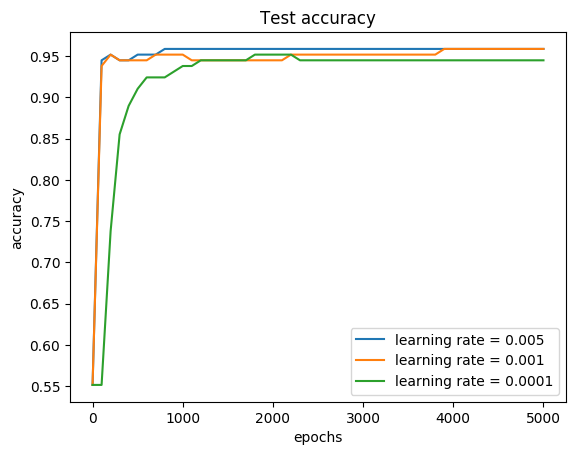
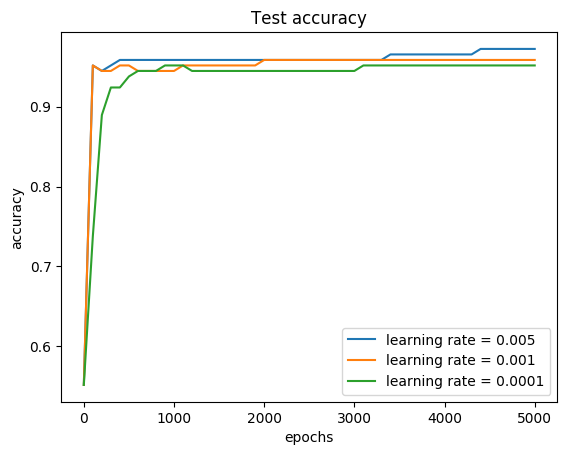
Using tensorflow loss functions instead of ours

diff --git a/starter.py b/starter.py
@@ -87,13 +87,12 @@ def build_graph(beta1=0.9, beta2=0.999, epsilon=1e-8, loss_type='MSE', learning_
     y_hat = tf.reduce_sum(w * x, axis=1) + b
 
     if loss_type == "MSE":
-        loss_d = 0.5 * tf.reduce_mean((y_hat - y) ** 2)
+        loss_d = tf.losses.mean_squared_error(y, y_hat)
     elif loss_type == "CE":
-        y_hat = tf.sigmoid(y_hat)
-        loss_d = -tf.reduce_mean(y * tf.log(y_hat) + (1 - y) * tf.log(1 - y_hat))
+        loss_d = tf.losses.sigmoid_cross_entropy(y, y_hat)
     else:
         raise ValueError('Unknown lossType:', loss_type)
-    loss_w = 0.5 * reg * tf.reduce_sum(w ** 2)
+    loss_w = tf.contrib.layers.l2_regularizer(reg)(w)
     loss = loss_d + loss_w
 
     optimizer = tf.train.AdamOptimizer(learning_rate=learning_rate, beta1=beta1, beta2=beta2, epsilon=epsilon)
